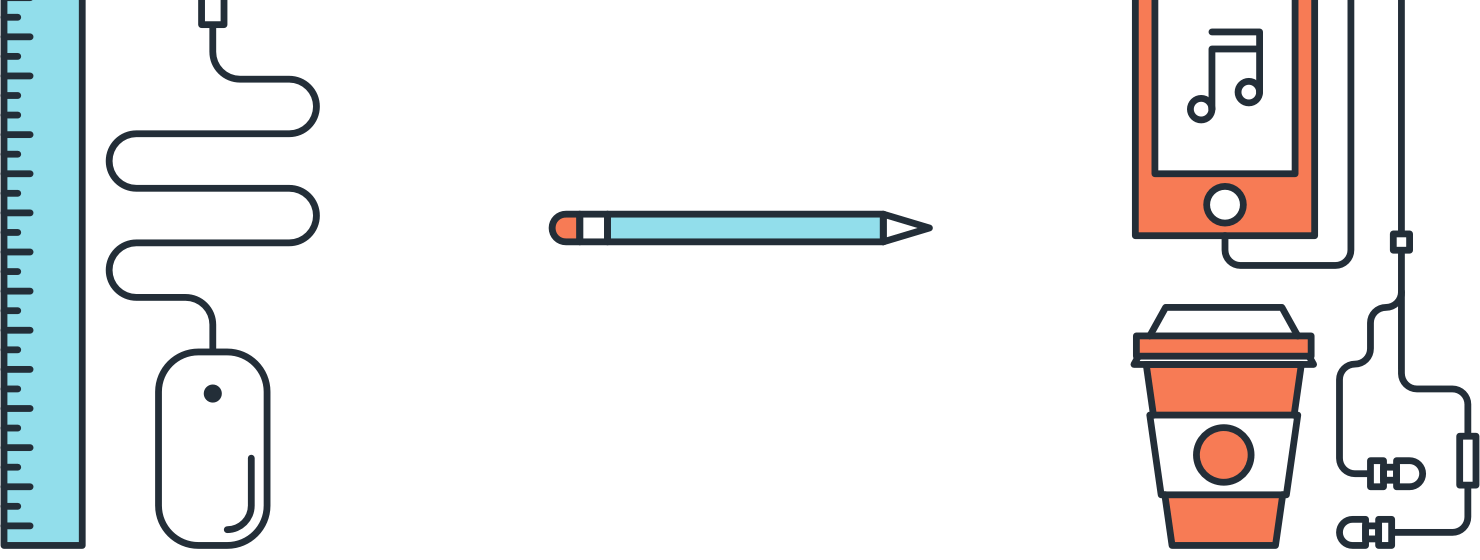
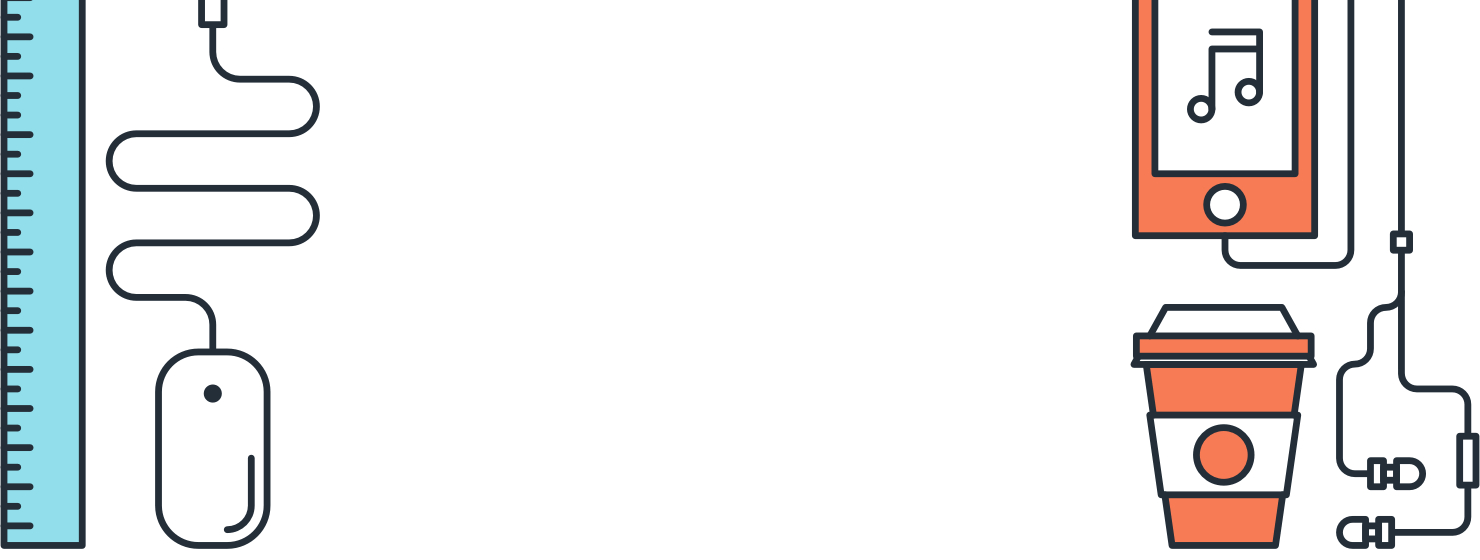
improve masthead image layout

Changed region(s): [[0.373, 0.3643, 0.6527, 0.4554]]

diff --git a/assets/sass/_layout.scss b/assets/sass/_layout.scss
@@ -38,6 +38,7 @@ a {
 		right: 0;
 		height: 70%;
 		background: $canvas-color url( ../images/masthead.png ) top center no-repeat;
+		background-size: contain;
 		z-index: 0;
 
 	}
